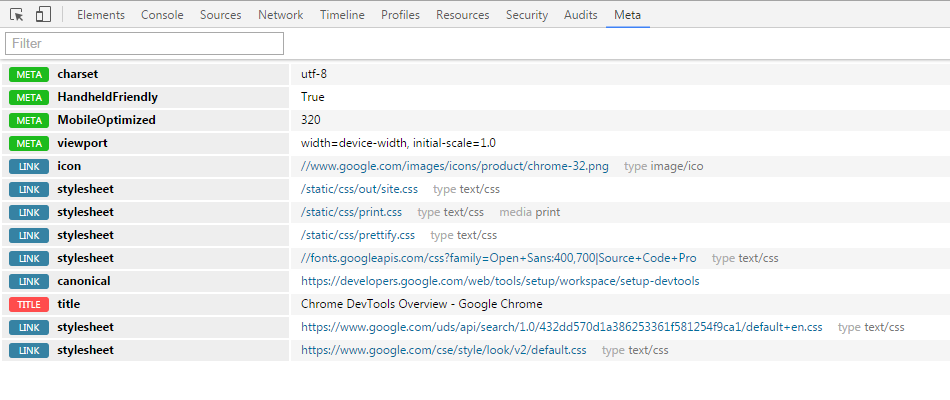
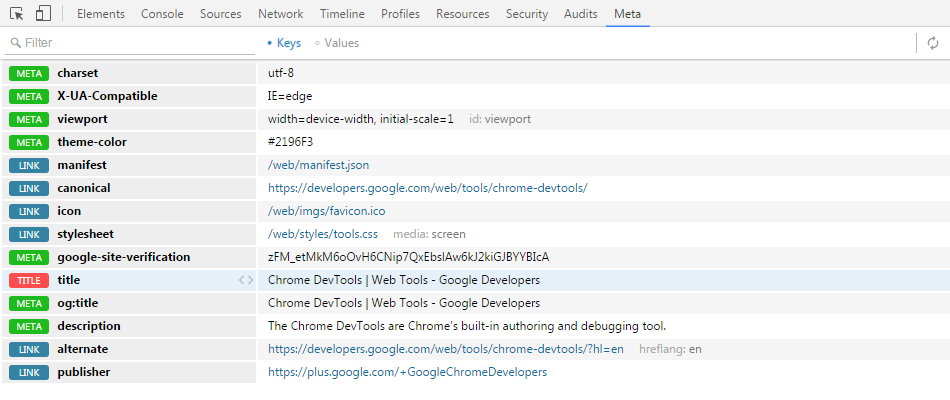
added reload button

diff --git a/src/html/panel-meta.html b/src/html/panel-meta.html
@@ -77,8 +77,40 @@
             width: 100%;
             height: 100%;
         }
+        #filters button[name="reload"] {
+            padding: 4px;
+            width: 24px;
+            height: 24px;
+            background: none;
+            border: none;
+            cursor: pointer;
+            outline: none;
+        }
+        #filters button[name="reload"] svg {
+            height: 16px;
+            width: 16px;
+            vertical-align: -4px;
+            fill: #999;
+        }
+        #filters button[name="reload"]:hover svg {
+            fill: #666;
+        }
+        #filters .actions {
+            position: relative;
+            margin-left: auto;
+            padding: 0 0 0 10px;
+        }
+        #filters .actions::before {
+            content: '';
+            position: absolute;
+            top: 2px;
+            left: 5px;
+            bottom: 2px;
+            border-left: 1px solid #bbb;
+        }
         #filters .flag {
             margin-left: 2px;
+            white-space: nowrap;
         }
         #filters .flag input {
             display: none;
@@ -237,6 +269,13 @@
             <input type="checkbox" name="searchValues"/>
             <span>Values</span>
         </label>
+        <div class="actions">
+            <button type="button" name="reload" title="Refresh List">
+                <svg xmlns="http://www.w3.org/2000/svg" viewBox="0 0 24 24" width="24" height="24" >
+                    <path d="M12 6v3l4-4-4-4v3c-4.42 0-8 3.58-8 8 0 1.57.46 3.03 1.24 4.26L6.7 14.8c-.45-.83-.7-1.79-.7-2.8 0-3.31 2.69-6 6-6zm6.76 1.74L17.3 9.2c.44.84.7 1.79.7 2.8 0 3.31-2.69 6-6 6v-3l-4 4 4 4v-3c4.42 0 8-3.58 8-8 0-1.57-.46-3.03-1.24-4.26z"/>
+                </svg>
+            </button>
+        </div>
     </form>
     <table id="meta"></table>
     <template id="templateMetaItem">

diff --git a/src/js/panel-meta.js b/src/js/panel-meta.js
@@ -31,6 +31,11 @@ var filterInput;
 var filterClearButton;
 
 /**
+ * @type {HTMLButtonElement}
+ */
+var filterReloadButton;
+
+/**
  * @type {HTMLInputElement}
  */
 var filterFlagSearchKeys;
@@ -263,6 +268,7 @@ document.addEventListener('DOMContentLoaded', function () {
     metaListItemAttributeTemplate = getTemplate('templateMetaItemAttribute');
     filterInput = filterForm.querySelector('input[name="filterString"]');
     filterClearButton = filterForm.querySelector('button[name="clearFilter"]');
+    filterReloadButton = filterForm.querySelector('button[name="reload"]');
     filterFlagSearchKeys = filterForm.querySelector('input[name="searchKeys"]');
     filterFlagSearchValues = filterForm.querySelector('input[name="searchValues"]');
 
@@ -274,12 +280,18 @@ document.addEventListener('DOMContentLoaded', function () {
     });
 
     filterInput.addEventListener('input', refreshMetaList);
+    filterFlagSearchKeys.addEventListener('change', refreshMetaList);
+    filterFlagSearchValues.addEventListener('change', refreshMetaList);
     filterClearButton.addEventListener('click', function () {
         filterInput.value = '';
         refreshMetaList();
     });
-    filterFlagSearchKeys.addEventListener('change', refreshMetaList);
-    filterFlagSearchValues.addEventListener('change', refreshMetaList);
+    filterReloadButton.addEventListener('click', function () {
+        port.postMessage({
+            action: 'getPageMeta',
+            tabId: chrome.devtools.inspectedWindow.tabId
+        });
+    });
 
     metaList.addEventListener('click', function (evt) {
         var link = evt.target.closest('a');
